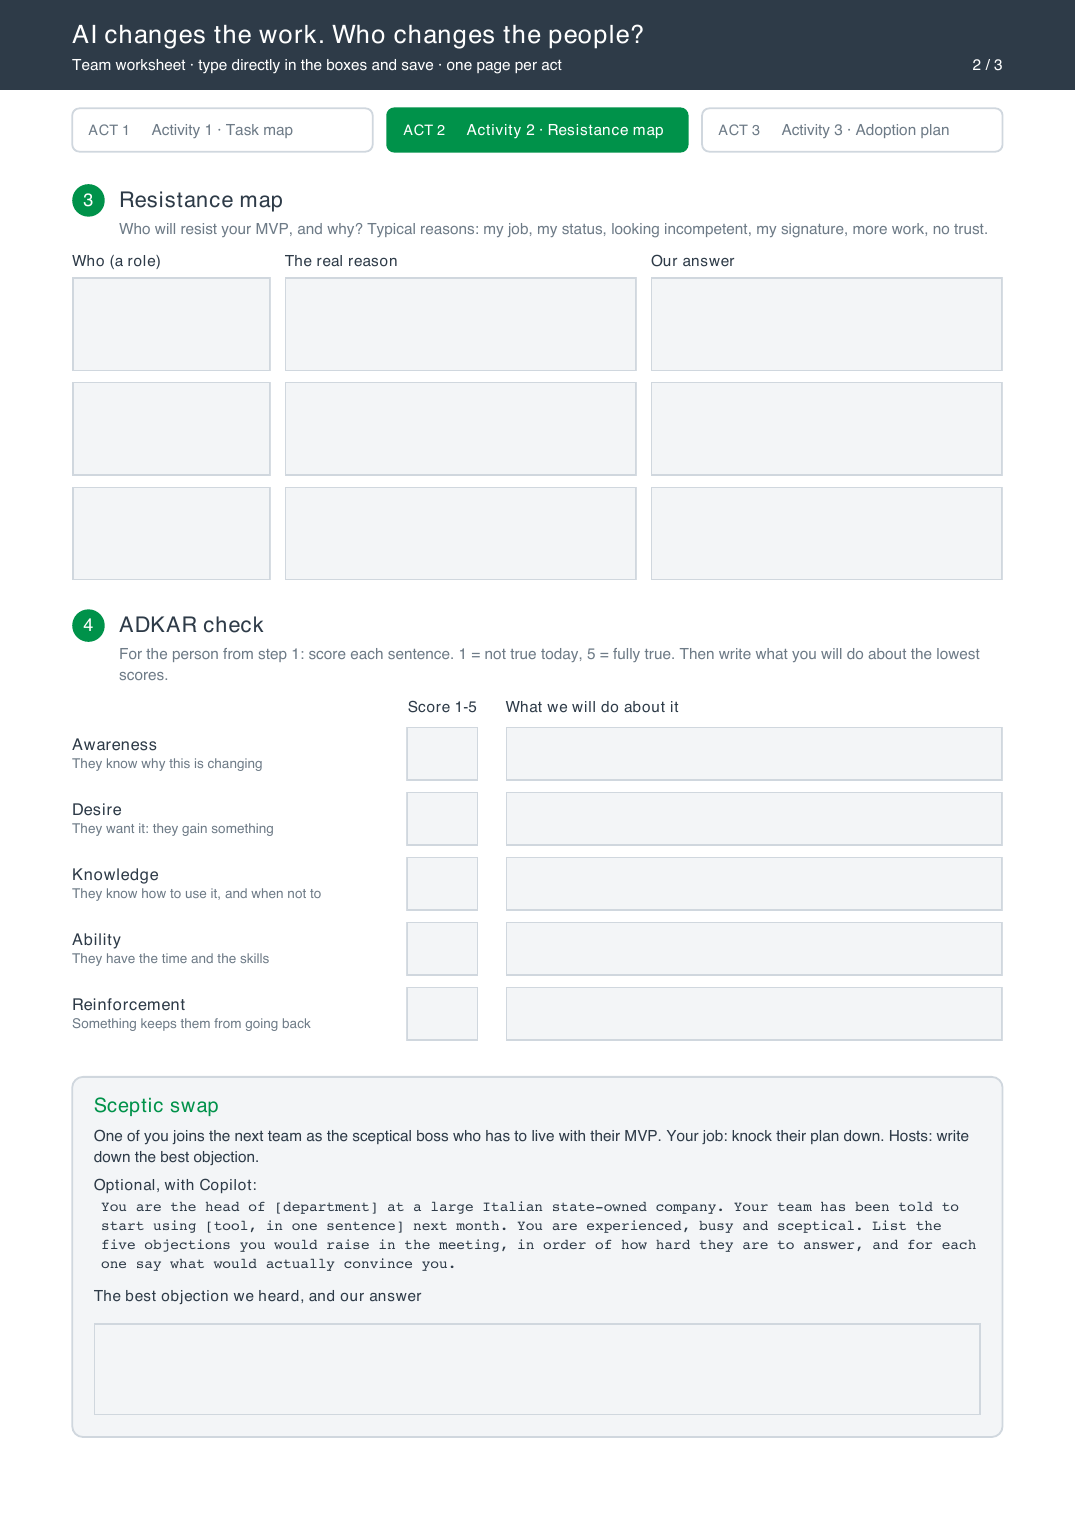
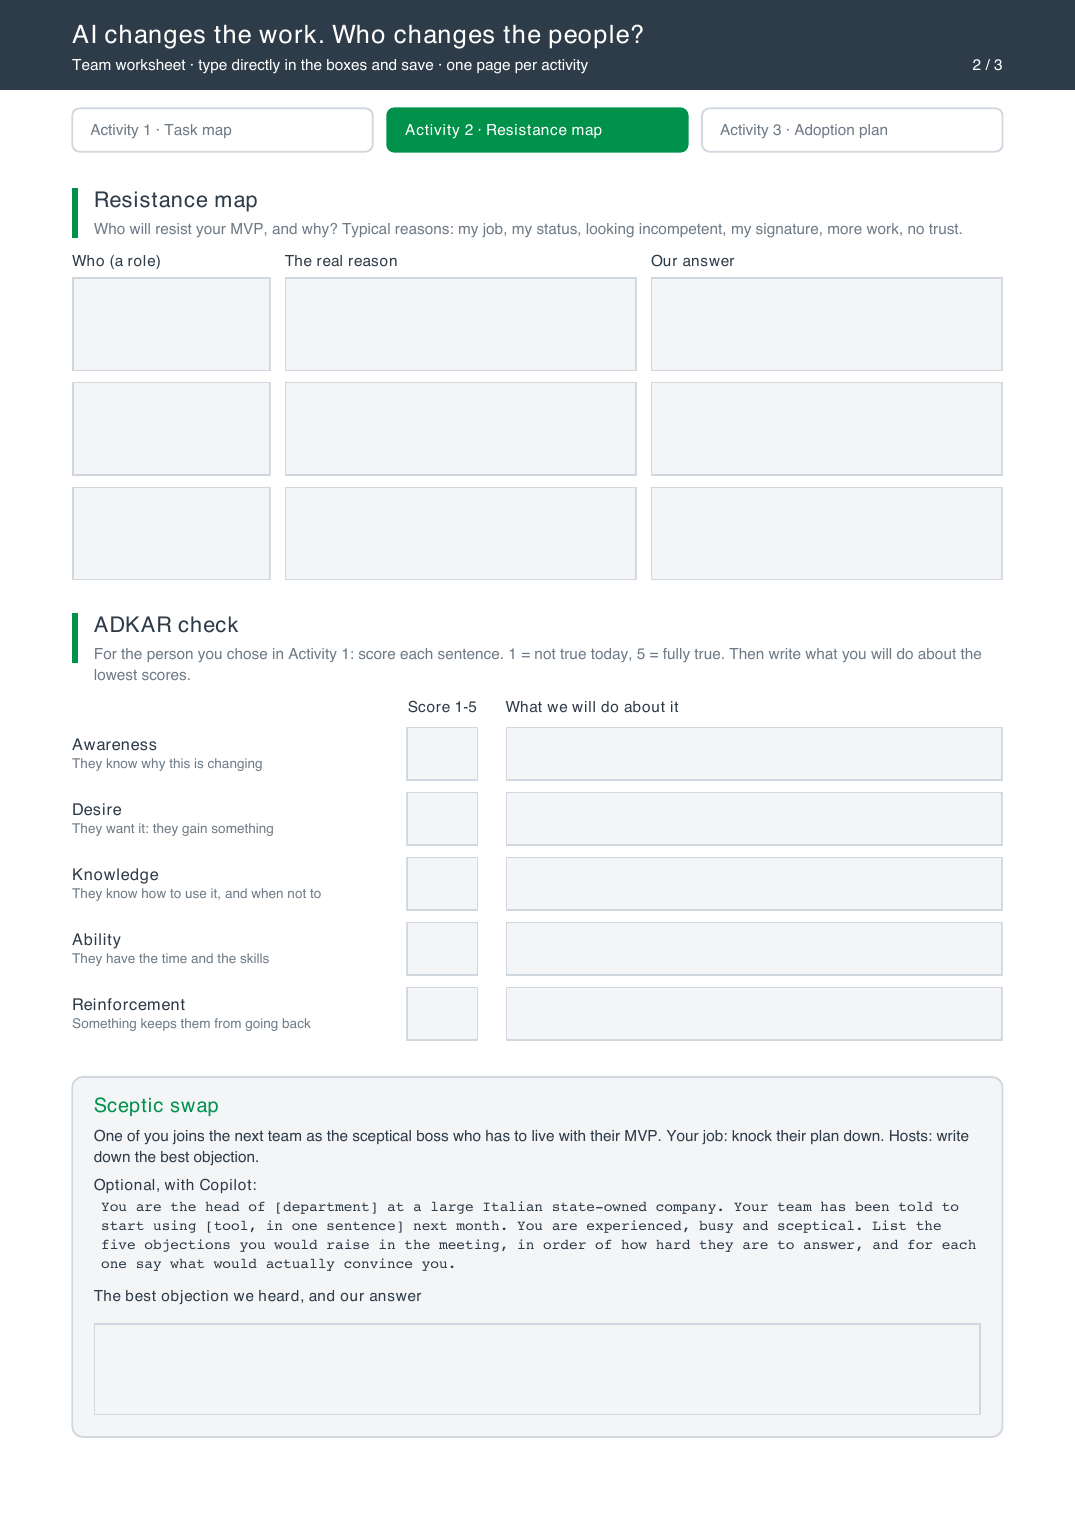
Worksheet: remove step numbers, one label per activity

diff --git a/worksheet.py b/worksheet.py
@@ -68,7 +68,7 @@ def header(page):
     c.setFont("Helvetica-Bold", 14)
     c.drawString(M, H - 24, "AI changes the work. Who changes the people?")
     c.setFont("Helvetica", 8.5)
-    c.drawString(M, H - 39, "Team worksheet · type directly in the boxes and save · one page per act")
+    c.drawString(M, H - 39, "Team worksheet · type directly in the boxes and save · one page per activity")
     c.drawRightString(W - M, H - 39, f"{page} / 3")
     gap = 8
     cw = (W - 2 * M - 2 * gap) / 3
@@ -80,23 +80,18 @@ def header(page):
         c.setFillColor(GREEN if on else white)
         c.roundRect(x, y, cw, 24, 4, fill=1, stroke=1)
         c.setFillColor(white if on else GREY)
-        c.setFont("Helvetica-Bold", 8)
-        c.drawString(x + 9, y + 9, act)
         c.setFont("Helvetica-Bold" if on else "Helvetica", 8.5)
-        c.drawString(x + 44, y + 9, name)
+        c.drawString(x + 10, y + 9, name)
     return y - 22
 
 
 def step(y, num, title, sub):
     c.setFillColor(GREEN)
-    c.circle(M + 9, y - 5, 9, fill=1, stroke=0)
-    c.setFillColor(white)
-    c.setFont("Helvetica-Bold", 10)
-    c.drawCentredString(M + 9, y - 8.5, str(num))
+    c.rect(M, y - 26, 3, 28, fill=1, stroke=0)
     c.setFillColor(INK)
     c.setFont("Helvetica-Bold", 12)
-    c.drawString(M + 26, y - 9, title)
-    return para(M + 26, y - 24, sub, size=8.5, width=W - 2 * M - 26) - 6
+    c.drawString(M + 12, y - 9, title)
+    return para(M + 12, y - 24, sub, size=8.5, width=W - 2 * M - 12) - 6
 
 
 def label(x, y, text, w=None):
@@ -158,7 +153,7 @@ for r in range(3):
 y -= 14
 
 y = step(y, 4, "ADKAR check",
-         "For the person from step 1: score each sentence. 1 = not true today, 5 = fully true. "
+         "For the person you chose in Activity 1: score each sentence. 1 = not true today, 5 = fully true. "
          "Then write what you will do about the lowest scores.")
 c.setFillColor(INK); c.setFont("Helvetica-Bold", 8.5)
 c.drawCentredString(M + 205, y, "Score 1-5"); c.drawString(M + 240, y, "What we will do about it")
@@ -213,9 +208,9 @@ y -= 62
 
 y = step(y, 6, "Four lines you can use tomorrow",
          "Plain words. Use them in your presentation if they help. If you cannot fill one, that is your next step.")
-lines = [("Who uses it, and what changes for them", "from steps 1-2"),
-         ("The resistance we expect, and our answer", "from step 3"),
-         ("The first 90 days", "from step 5"),
+lines = [("Who uses it, and what changes for them", "from Activity 1"),
+         ("The resistance we expect, and our answer", "from Activity 2"),
+         ("The first 90 days", "from the plan above"),
          ("How we will know it is being used", "metric, target, owner")]
 lh = (y - 60 - 4 * 24) / 4
 for i, (t, s) in enumerate(lines):
